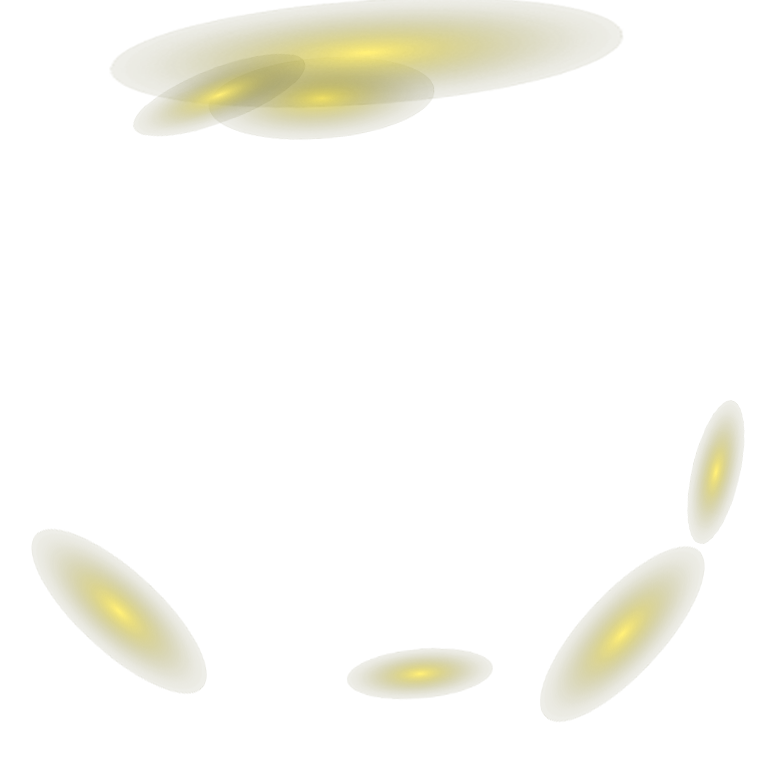
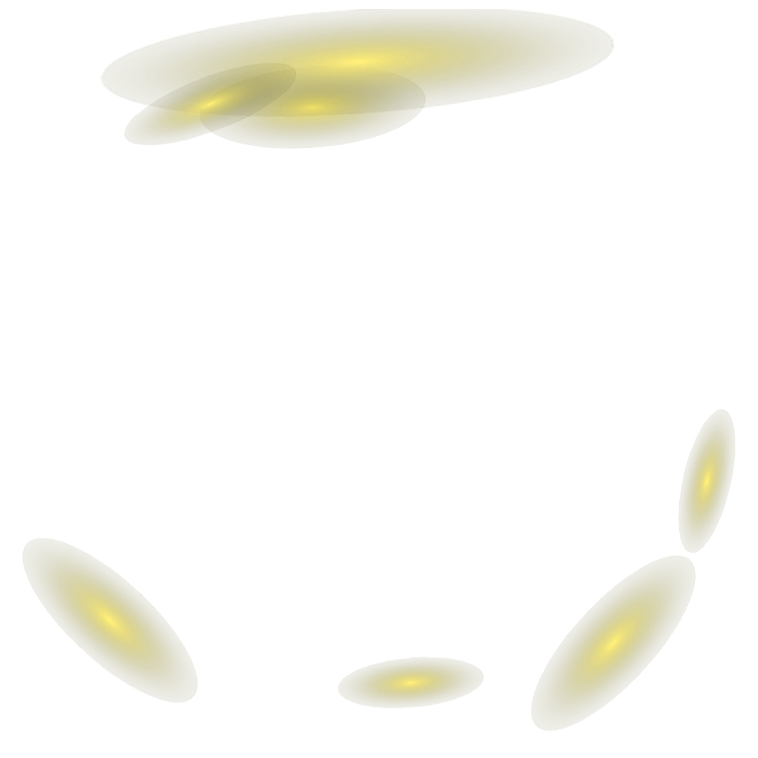
update multiplier

diff --git a/src/components/Scene/useMultiplierAnimation.js b/src/components/Scene/useMultiplierAnimation.js
@@ -12,6 +12,7 @@ PixiPlugin.registerPIXI(PIXI);
 // const FontFaceObserver = require("fontfaceobserver");
 
 export default function useMultiplierAnimation() {
+  console.log("multiplier");
   const halfX = window.innerWidth / 2;
   const Y = window.innerHeight;
   const xArray = [
@@ -226,7 +227,7 @@ export default function useMultiplierAnimation() {
     container.addChild(emiCont);
 
     const oneCircle = (cx, cy, r) => {
-      const circlerTexture = new PIXI.Texture.from("assets/image/multi.png");
+      const circlerTexture = new PIXI.Texture.from("assets/image/circle.png");
       const circle = new PIXI.Sprite(circlerTexture);
       circle.anchor.set(0.5);
       circle.width = r * 2;
@@ -235,6 +236,7 @@ export default function useMultiplierAnimation() {
       circle.y = cy;
       circle.tint = 0xfff6c9;
       circle.angle = getRB(0, 90);
+      circle.alpha = 0.5;
       gsap.to(circle, {
         width: r * 4,
         height: r * 4,
@@ -251,39 +253,39 @@ export default function useMultiplierAnimation() {
       });
       container.addChild(circle);
     };
-    // for (let i = 0; i < 5; i++) {
-    //   oneCircle(getRB(-3, 3), getRB(-3, 3), radius / 2 + i - 2);
-    // }
-
-    const oneArc = (cx, cy, r, v) => {
-      const arc = new PIXI.Graphics();
-      arc.lineStyle(0.5, 0xffff00, 1);
-      arc.arc(cx, cy, r, 0, getRB(5, 8), false);
-      arc.width = r;
-      arc.height = r;
-      // arc.pivot.set(0.5);
-      // arc.tint = 0xfff6c9;
-      arc.angle = getRB(0, 360);
-
-      gsap.to(arc, {
-        width: r * 2,
-        height: r * 2,
-        duration: 1,
-        onComplete: () => {
-          gsap.to(arc, {
-            angle: arc.angle + 360,
-            duration: v,
-            ease: "none",
-            // tint: 0xffb119,
-            repeat: -1,
-          });
-        },
-      });
-      container.addChild(arc);
-    };
     for (let i = 0; i < 5; i++) {
-      oneArc(getRB(-4, 4), getRB(-4, 4), radius + i - 2, getRB(1, 3));
+      oneCircle(getRB(-3, 3), getRB(-3, 3), radius / 2 + i - 2);
     }
+
+    // const oneArc = (cx, cy, r, v) => {
+    //   const arc = new PIXI.Graphics();
+    //   arc.lineStyle(0.5, 0xffff00, 1);
+    //   arc.arc(cx, cy, r, 0, getRB(5, 8), false);
+    //   arc.width = r;
+    //   arc.height = r;
+    //   // arc.pivot.set(0.5);
+    //   // arc.tint = 0xfff6c9;
+    //   arc.angle = getRB(0, 360);
+
+    //   gsap.to(arc, {
+    //     width: r * 2,
+    //     height: r * 2,
+    //     duration: 1,
+    //     onComplete: () => {
+    //       gsap.to(arc, {
+    //         angle: arc.angle + 360,
+    //         duration: v,
+    //         ease: "none",
+    //         // tint: 0xffb119,
+    //         repeat: -1,
+    //       });
+    //     },
+    //   });
+    //   container.addChild(arc);
+    // };
+    // for (let i = 0; i < 5; i++) {
+    //   oneArc(getRB(-4, 4), getRB(-4, 4), radius + i - 2, getRB(1, 3));
+    // }
     const text = new PIXI.Text(multiNum + `x`, {
       dropShadow: true,
       fontWeight: 900,
@@ -333,13 +335,15 @@ export default function useMultiplierAnimation() {
     });
     container.addChild(selText);
 
-    const glareTexture = new PIXI.Texture.from("/assets/image/multi-fade2.png");
+    const glareTexture = new PIXI.Texture.from(
+      "/assets/image/circle-shine.png"
+    );
     const glare = new PIXI.Sprite(glareTexture);
     glare.blendMode = PIXI.BLEND_MODES.ADD;
-    glare.tilt = 0xffff00;
+    // glare.tilt = 0xffff00;
     glare.roundPixels = true;
     glare.anchor.set(0.5);
-    // glare.tint = 0xffff00;
+    glare.tint = 0xffff00;
     glare.x = 0;
     glare.y = 0;
     glare.width = radius + 5;
@@ -349,6 +353,13 @@ export default function useMultiplierAnimation() {
       width: radius * 2 + 10,
       height: radius * 2 + 10,
       duration: 1,
+      onComplete() {
+        gsap.to(glare, {
+          angle: 360,
+          duration: 100,
+          repeate: -1,
+        });
+      },
     });
   };
   const playAnimatedSprite = (app) => {

diff --git a/src/components/Scene/useResource.js b/src/components/Scene/useResource.js
@@ -18,6 +18,9 @@ export default function useResource() {
     loader.add("assets/image/beam.png");
     loader.add("assets/image/glare.png");
     loader.add("assets/image/hand.png");
+    loader.add("assets/image/circle.png");
+    loader.add("assets/image/circle-shine.png");
+
     return loader.load(loader);
   };
 
